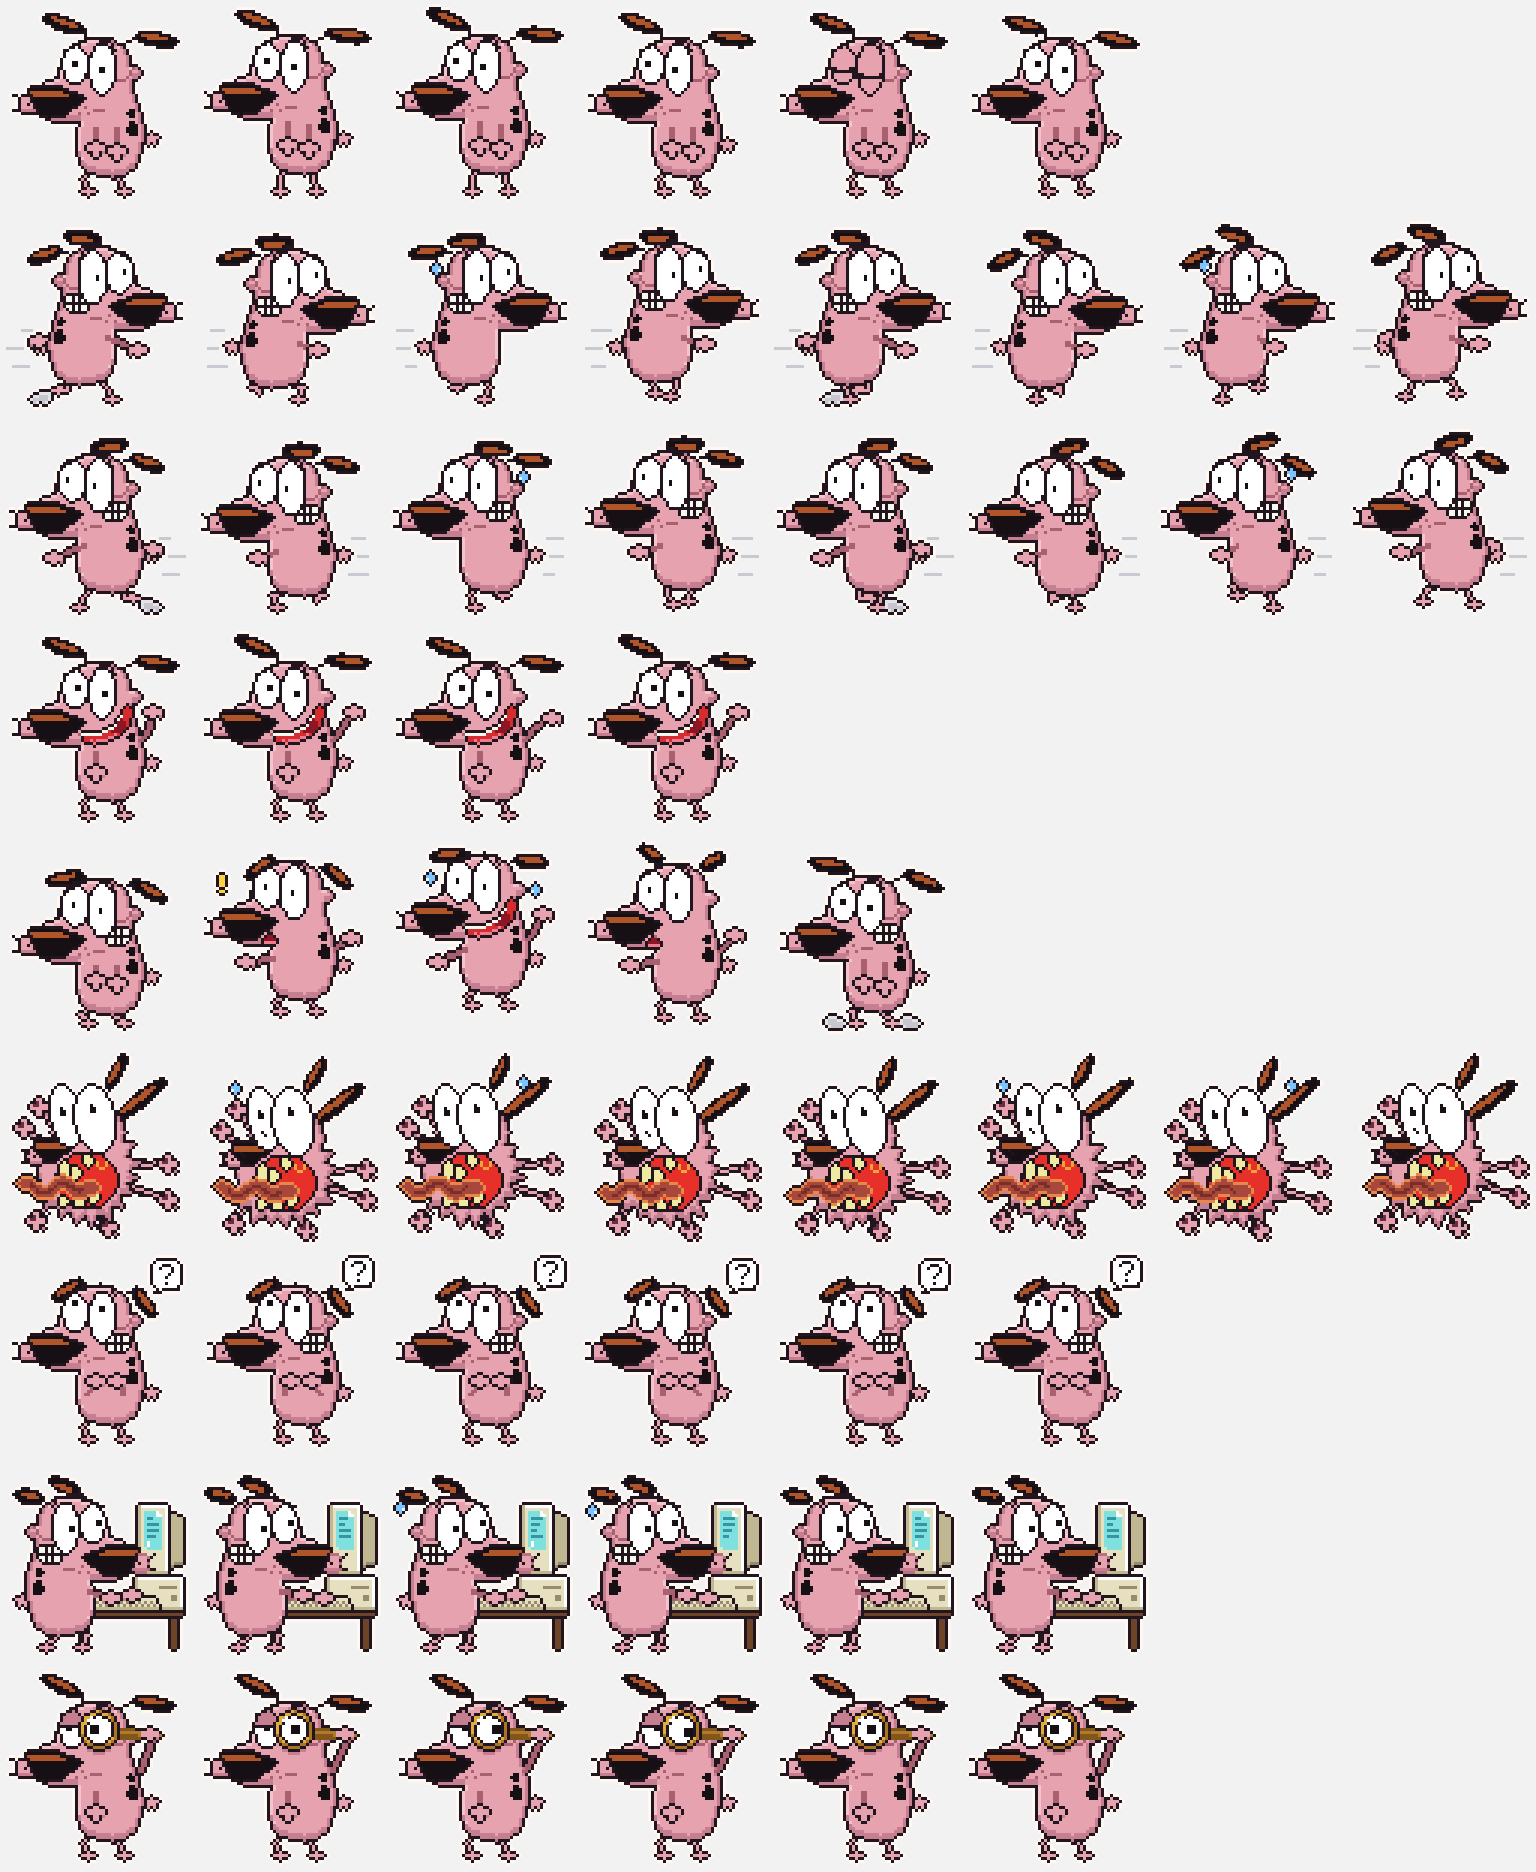
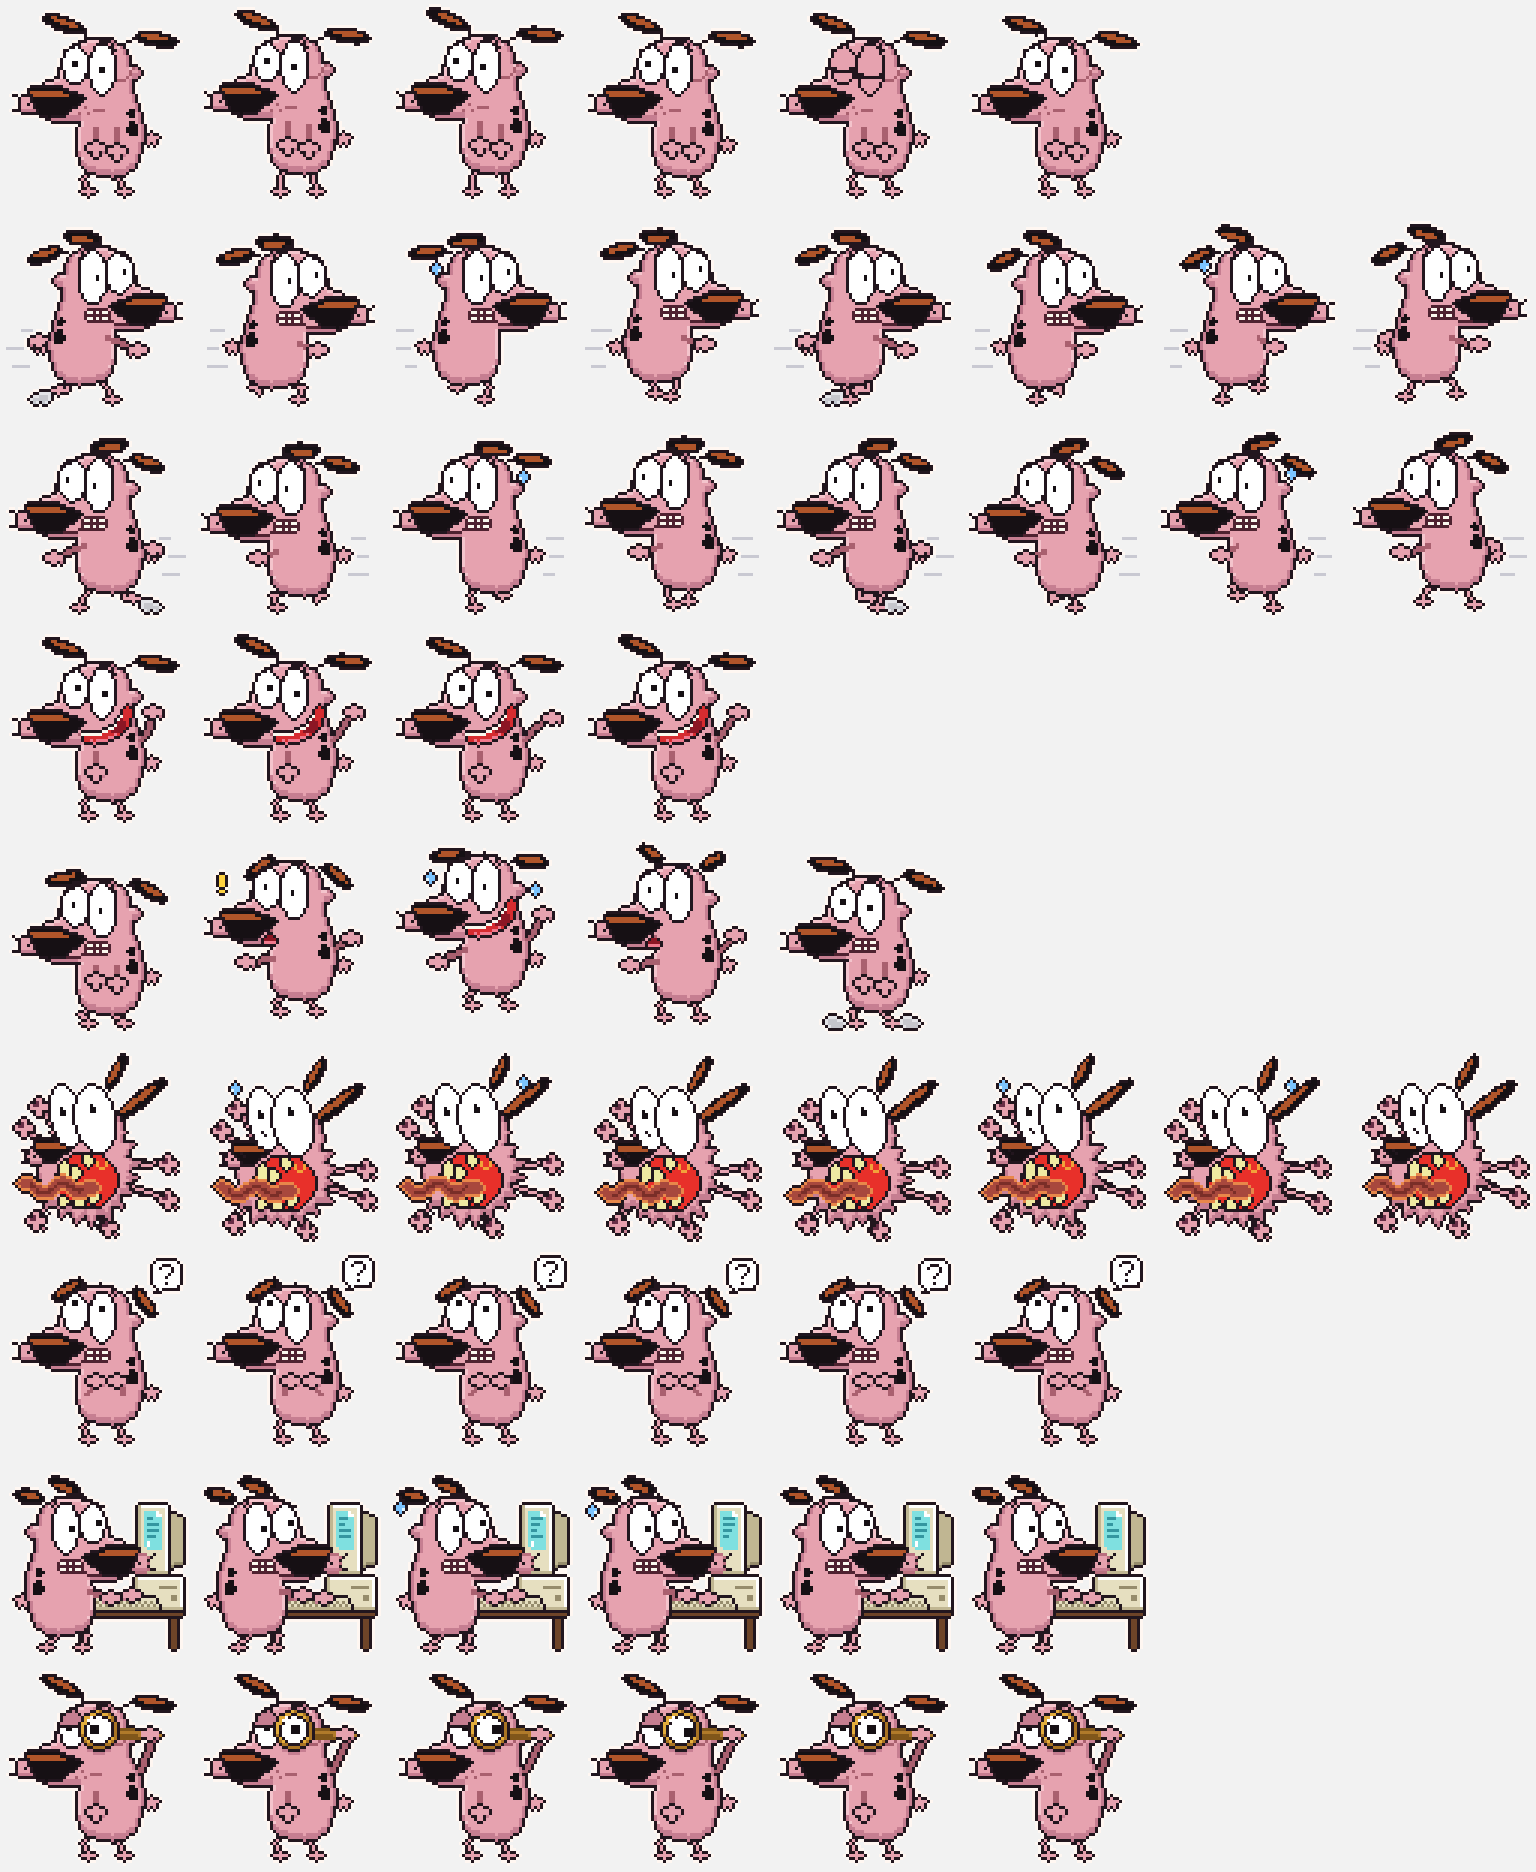
fix(pixel): one mouth in grimace frames and coherent torso markings

diff --git a/pets/courage/pixel/make_pet.py b/pets/courage/pixel/make_pet.py
@@ -61,6 +61,7 @@ PINK_D = (198, 126, 145)
 PINK_L = (244, 196, 204)
 LINE_PINK = (185, 112, 127)    # #B9707F interior detail lines (never black inside the body)
 LINE_PINK_D = (169, 96, 111)   # #A9606F mouth / freckles
+JAW = (78, 34, 48)             # grimace jaw line: a true feature line, near the outline colour
 BRASS = (176, 122, 42)         # #B07A2A magnifier handle
 BRASS_D = (128, 86, 26)
 BLACK = (22, 16, 20)
@@ -318,6 +319,7 @@ class Pose:
     hdx: int = 0                 # head offset relative to body
     hdy: int = 0
     bdy: int = 0                 # torso offset (crouch / bob)
+    neck: tuple = (36.0, 46.0)   # rows over which the head offset fades into the body
     ears: tuple = (EAR_L, EAR_R)
     eyes: object = "open"        # open | wide | closed | squint, or (left, right)
     pupil: tuple = (0, 0)
@@ -332,6 +334,12 @@ class Pose:
     pre: list = field(default_factory=list)     # drawn before the character
     extras: list = field(default_factory=list)  # drawn on top
     fx: list = field(default_factory=list)      # effect marks drawn after outline + rim
+
+
+# The rear spots start at y 35 (body space) and do not follow the head offset. Rows whose head
+# offset changes between frames use this neck, so only the head moves and the torso, its
+# outline and its spots stay rigid; spots fixed under a moving outline look painted on.
+RIGID_TORSO_NECK = (30.0, 34.0)
 
 
 def blend_offset(y: float, top: float = 36.0, bottom: float = 46.0) -> float:
@@ -430,7 +438,7 @@ def draw_character(p: Pose) -> np.ndarray:
     # Jelly-bean head + body, muzzle and cheek bump
     pts = []
     for x, y in BEAN:
-        w = blend_offset(y)
+        w = blend_offset(y, *p.neck)
         pts.append((x + gx + p.hdx * w, y + gy + p.bdy + p.hdy * w))
     bean = polygon(pts)
     bean |= ellipse(*Hd(22.2, 32.6), 11.5, 7.2)        # snout bridge / muzzle
@@ -468,7 +476,7 @@ def draw_character(p: Pose) -> np.ndarray:
         c.part(tm, TONGUE)
         c.put(wire(tongue[1:4]) & tm, RED)
     elif p.mouth != "none":
-        if p.mouth in ("smile", "grit"):
+        if p.mouth == "smile":
             c.put(wire([Hd(x, y) for x, y in MOUTH_LINE]), LINE_PINK_D)
         if p.mouth == "open":
             om = polygon([Hd(x, y) for x, y in OPEN_MOUTH])
@@ -479,22 +487,25 @@ def draw_character(p: Pose) -> np.ndarray:
             low = om & ~look(om, 0, 1)
             c.put(low & ~top_edge & (XX > Hd(29.5, 0)[0]) & (XX < Hd(39.0, 0)[0]), TONGUE)
         elif p.mouth == "grit":
-            x0, y0 = Hd(36, 29)
-            x0, y0 = int(round(x0)), int(round(y0))
-            g = rect(x0, y0, x0 + 6, y0 + 4) & ~rect(x0, y0, x0, y0) & ~rect(x0 + 6, y0 + 4, x0 + 6, y0 + 4)
-            c.part(g, TEETH)
-            c.put(g & (YY == y0 + 2), OUT)
-            c.put(g & ((XX == x0 + 2) | (XX == x0 + 4)), OUT)
+            # One mouth: a dark jaw line runs from the end of the nose's underside back to a
+            # short, wide grimace at the mouth corner, right behind the snout. Teeth at the
+            # cheek, near the ear, read as a second mouth.
+            x0, y0 = (int(round(v)) for v in Hd(29, 34))
+            c.put(wire([Hd(22, 38), Hd(25, 38), Hd(28, 37)]), JAW)
+            g = rect(x0, y0, x0 + 6, y0 + 2)
+            c.part(g, TEETH, inner=JAW)
+            c.put(g & (YY == y0 + 1), JAW)                          # bite line
+            c.put(g & ((XX == x0 + 2) | (XX == x0 + 4)), JAW)       # tooth lines
         elif p.mouth == "o":
             om = ellipse(*Hd(25.5, 38.4), 2.4, 1.5)    # little yelp at the jaw, under the snout
             c.part(om, RED_D)
             c.put(om & ~look(om, 0, 1), TONGUE)
         # muzzle freckles and whisker
-        if p.mouth in ("smile", "grit"):
+        if p.mouth == "smile":
             for fx, fy in ((28, 35), (26, 37), (29, 37)):
                 c.dot(*Hd(fx, fy), LINE_PINK_D)
             c.put(wire([Hd(31, 36), Hd(34, 36.4)]), LINE_PINK_D)
-        else:
+        elif p.mouth != "grit":
             c.dot(*Hd(26, 35.5), LINE_PINK_D)
 
     # Snout tip with a dot and whiskers, then the huge wedge nose
@@ -775,7 +786,7 @@ def row_waving():
 
 def row_jumping():
     frames = [
-        Pose(hdy=1, bdy=2, eyes="wide", mouth="grit",
+        Pose(hdy=1, bdy=2, neck=RIGID_TORSO_NECK, eyes="wide", mouth="grit",
              ears=((-40, 4.0, -100, 12.0), (60, 5.5, 118, 12.0)),
              arms=(([(31, 41.5), (31, 45)], "hang", False), ([(38, 42), (38, 45.5)], "hang", False))),
         Pose(gy=-3, legs_air=True, eyes="wide", mouth="o",
@@ -789,7 +800,7 @@ def row_jumping():
         Pose(gy=-2, legs_air=True, eyes="wide", mouth="o",
              ears=((-28, 3.5, -60, 8.5), (38, 3.5, 62, 8.5)),
              arms=(([(27, 44.5), (17.5, 45)], "open", False), ([(46.6, 41), (52, 35)], "open", False))),
-        Pose(hdy=1, bdy=1, mouth="grit",
+        Pose(hdy=1, bdy=1, neck=RIGID_TORSO_NECK, mouth="grit",
              ears=(ear(EAR_L, d_flap=-10), ear(EAR_R, d_flap=12)),
              extras=[dust([21, 46])]),
     ]
@@ -993,7 +1004,7 @@ def row_review():
     frames = []
     for i in range(6):
         frames.append(Pose(
-            hdx=scan[i], eyes=("squint", "open"), pupil=(scan[i], 0),
+            hdx=scan[i], neck=RIGID_TORSO_NECK, eyes=("squint", "open"), pupil=(scan[i], 0),
             ears=(ear(EAR_L, d_flap=6), EAR_R),
             arms=(HANG_ARMS[0],),
             extras=[magnifier(scan[i] * 2, scan_dy[i])]))
